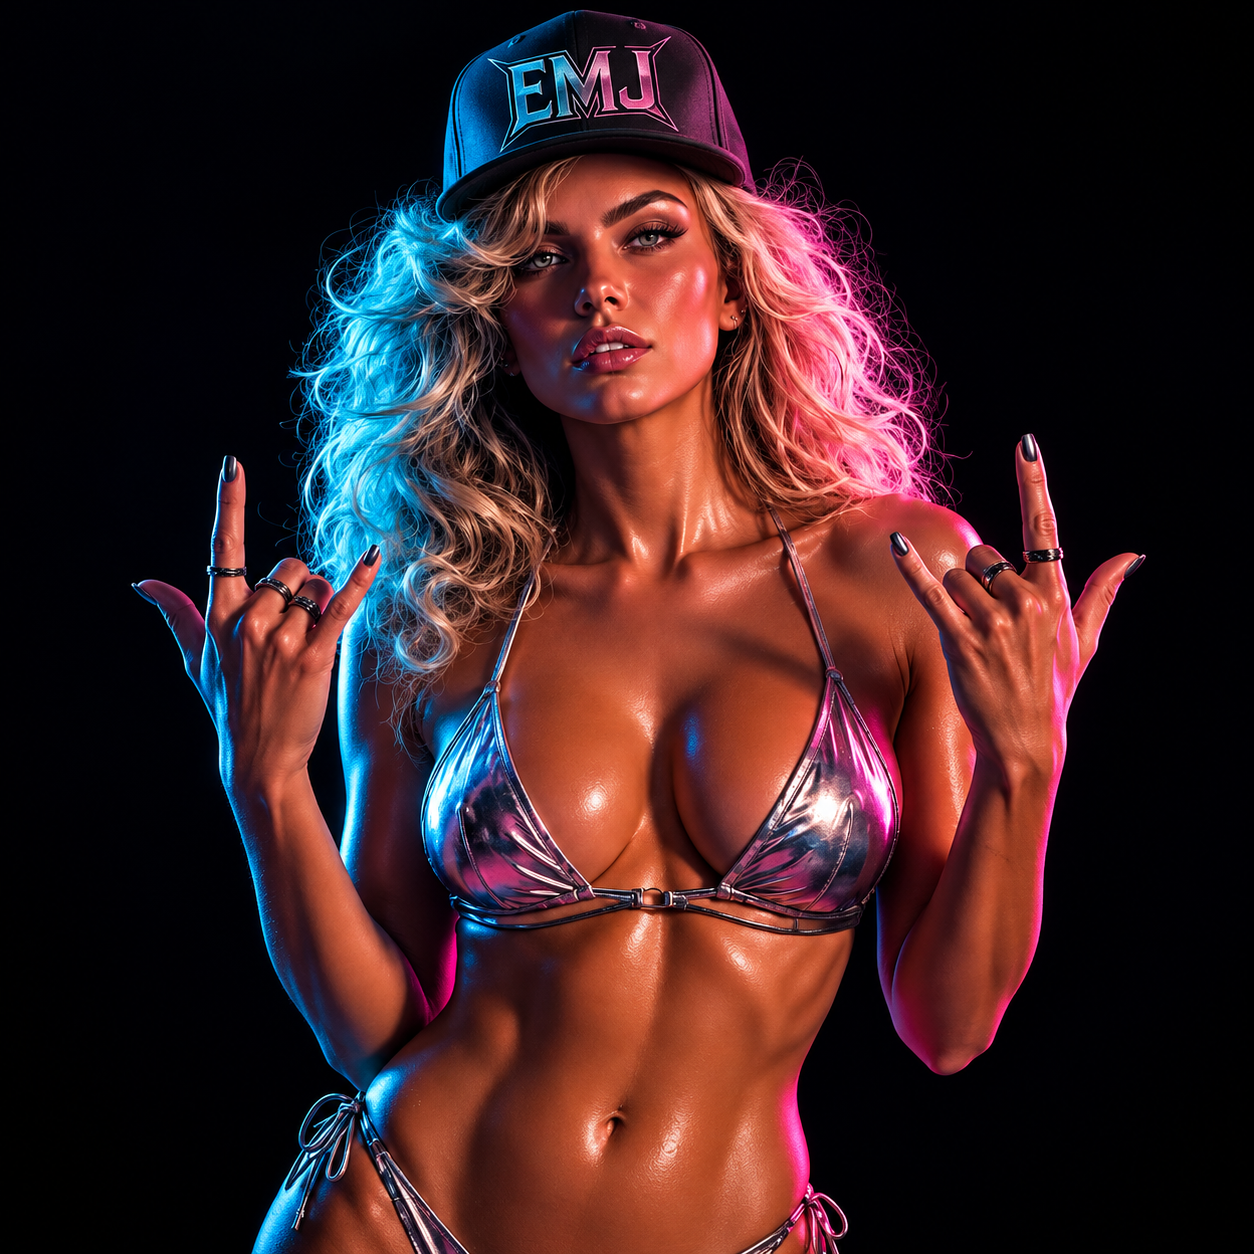
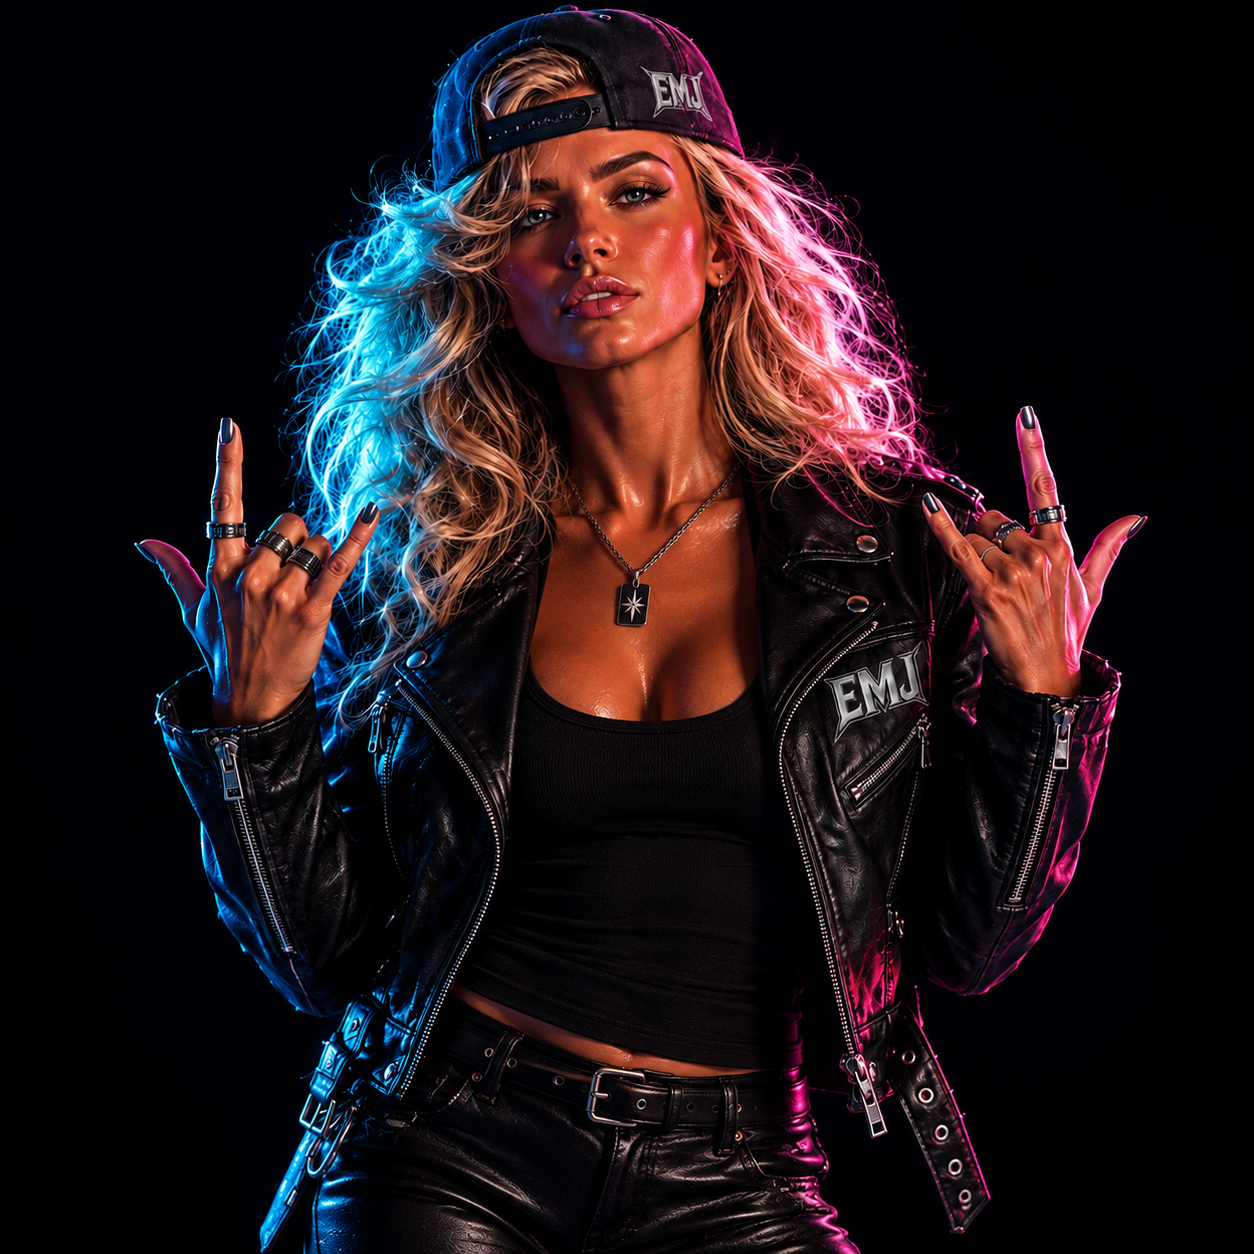
Update page titles and link background

diff --git a/tools.html b/tools.html
@@ -35,7 +35,6 @@
 
     <main class="tools-main">
         <section class="tools-section" aria-labelledby="tools-title">
-            <h2 id="tools-title">TOOLS</h2>
             <p class="tools-intro">From Eighty's Mind Judgement to everyone striving to make the most of life: practical tools to help you live with purpose and move forward with confidence.</p>
             <p class="tools-intro-japanese" lang="ja">Eighty's Mind Judgementから、懸命に生きるあなたへ。日々の暮らしや人生をより豊かに、力強く歩むためのツールを提供します。</p>
             <div class="tool-list">

diff --git a/style.css b/style.css
@@ -129,6 +129,16 @@ header img {
     object-fit: contain;
 }
 
+header > a[aria-label="Home"] {
+    display: flex;
+    width: 100%;
+    justify-content: center;
+}
+
+header > a[aria-label="Home"] img {
+    margin-inline: auto;
+}
+
 .visually-hidden {
     position: absolute;
     width: 1px;

diff --git a/videos.html b/videos.html
@@ -36,12 +36,6 @@
     <main>
 
         <section>
-            <h2>VIDEOS</h2>
-
-            <p>
-                Latest music videos from Eighty's Mind Judgement.
-            </p>
-
             <h3>CORPORATE WARRIOR — OFFICIAL MUSIC VIDEO</h3>
 
             <div class="youtube-video">

diff --git a/links.html b/links.html
@@ -36,8 +36,6 @@
     <main>
 
         <section>
-            <h2>LINKS</h2>
-
             <p>Officially available on Spotify, YouTube Music, Amazon Music, Apple Music, iTunes, and more.</p>
             <p>New music on YouTube every Tuesday at 9:00 PM (JST).</p>
 
